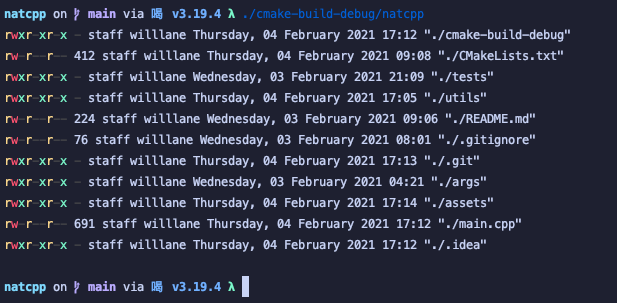
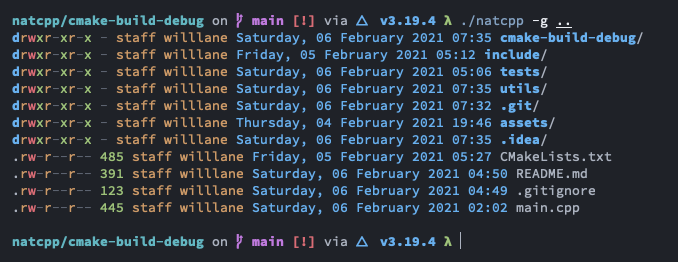
added colors for columns and new screen shot

Changed region(s): [[0.0, 0.0305, 0.9546, 0.8244], [0.0, 0.8855, 0.7083, 0.9771]]

diff --git a/utils/types.cpp b/utils/types.cpp
@@ -211,6 +211,12 @@ void print_files(const std::vector<File>& files) {
       }
     }
 
+    // Set colors
+    file.set_size(green(file.get_size()));
+    file.set_group(yellow(file.get_group()));
+    file.set_user(yellow(file.get_user()));
+    file.set_modified(light_blue(file.get_modified()));
+
     std::cout << perm_denote + file.get_perms() << ' ';
     std::cout << file.get_size() << ' ';
     std::cout << file.get_group() << ' ';
